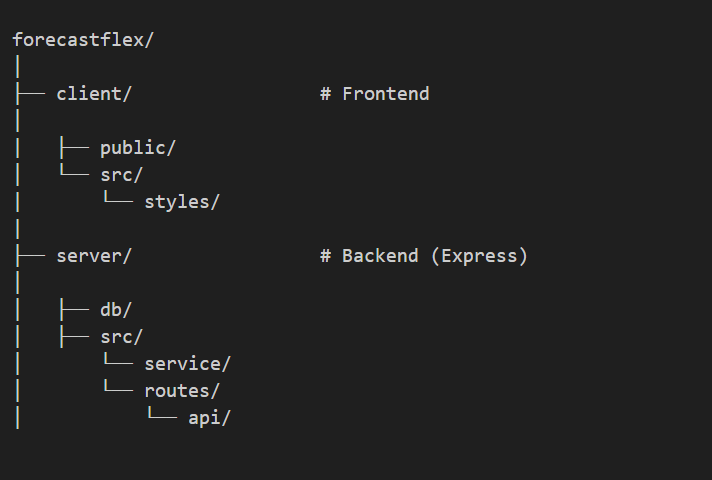
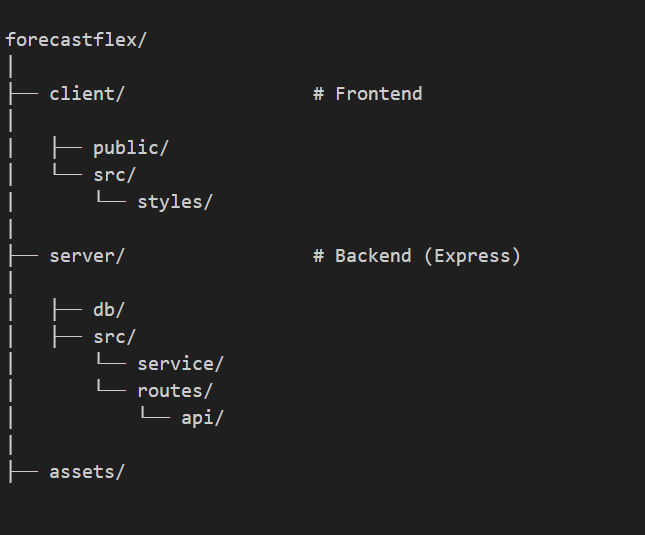
final readme

diff --git a/README.md b/README.md
@@ -26,7 +26,7 @@ N/A
 
 The app allows users to search for weather information by entering a city name, which sends a request to the backend API. The backend processes the request and retrieves the weather data from an external API, returning it to the client for display. The app also stores your search history, which can be retrieved with a GET request to /api/weather/history, and individual entries can be deleted using a DELETE request. This setup allows users to view current weather AND forecast next 5 days, track their searches, and manage their search history easily.
 
-![alt text](image.png)
+![alt text](assets/ui.png)
 
 ## Tests
 

diff --git a/assets/directory-structures.md b/assets/directory-structures.md
@@ -14,5 +14,7 @@ forecastflex/
 │       └── service/
 │       └── routes/
 │           └── api/
+|
+├── assets/  
 
 
